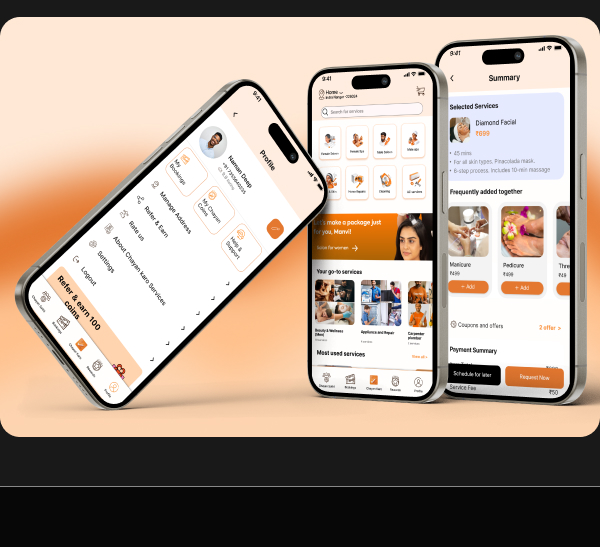
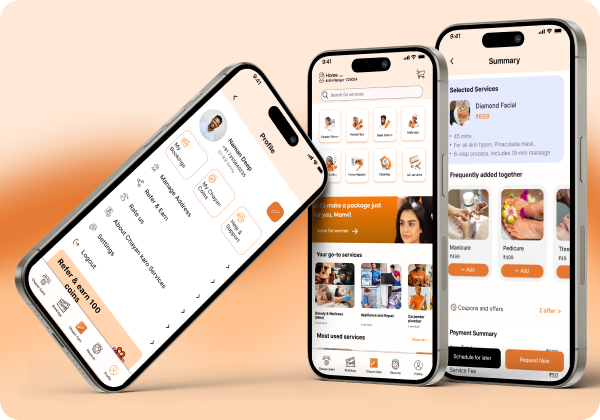
homeheaderfixed

diff --git a/src/components/case-study/CaseStudy.jsx b/src/components/case-study/CaseStudy.jsx
@@ -52,6 +52,40 @@ const CASE_STUDIES_DATA = {
       { label: 'Logistics Costs', value: '20% Lower' },
       { label: 'Price Transparency', value: '99% Accuracy' }
     ],
+    nextId: 'posts-brand',
+    nextTitle: 'Posts And Brand Identity'
+  },
+  'posts-brand': {
+    title: 'Posts And Brand Identity',
+    category: 'UX Research,Branding + UX/UI Designing',
+    role: 'Lead Brand Designer',
+    timeline: '6 Weeks (2025)',
+    deliverables: 'Brand Style Guide, Marketing Collaterals, Social Templates',
+    platform: 'Print & Digital Social Media',
+    problem: 'The brand faced fragmented marketing assets across channels, causing inconsistent brand awareness and low user engagement.',
+    solution: 'Designed a cohesive posts layout and visual brand identity framework, establishing consistent grids, typography, and color schemes for all public-facing assets.',
+    metrics: [
+      { label: 'Brand Consistency', value: '100% Score' },
+      { label: 'Social Engagement', value: '+50% Growth' },
+      { label: 'Asset Design Speed', value: '3x Faster' }
+    ],
+    nextId: 'illustrations',
+    nextTitle: 'Illustrations'
+  },
+  'illustrations': {
+    title: 'Illustrations',
+    category: 'UX Research,Branding + UX/UI Designing',
+    role: 'Digital Illustrator',
+    timeline: '4 Weeks (2025)',
+    deliverables: 'Vector Art, Hero Assets, Custom Icons',
+    platform: 'Web & Mobile',
+    problem: 'Generic stock illustrations failed to communicate the unique product value and failed to align with our high-tech cyberpunk branding.',
+    solution: 'Created a custom vector and glitch-art illustration system tailored to the brand aesthetic, featuring mechanical components, wireframes, and vibrant cyber hues.',
+    metrics: [
+      { label: 'Visual Uniqueness', value: 'High Score' },
+      { label: 'Conversion Rate', value: '+18% Lift' },
+      { label: 'UI Cohesiveness', value: 'Perfect Fit' }
+    ],
     nextId: 'chayan-karo',
     nextTitle: 'Chayan Karo'
   }

diff --git a/src/components/layout/navbar/Navbar.css b/src/components/layout/navbar/Navbar.css
@@ -23,11 +23,14 @@
 
     height:75px;
 
-    background:rgba(7,7,7,.85);
+    background:rgba(7,7,7,.5);
 
-    backdrop-filter:blur(14px);
+    backdrop-filter:blur(10px);
+    -webkit-backdrop-filter:blur(10px);
 
-    border-bottom:1px solid rgba(255,255,255,.04);
+    border-bottom:1px solid rgba(255,255,255,.08);
+
+    box-shadow:0 4px 30px rgba(0, 0, 0, 0.5);
 
 }
 
@@ -159,49 +162,78 @@
     color:#070707;
 }
 
-
 /* ========================= */
-/* MOBILE */
+/* MOBILE RESPONSIVENESS (HORIZONTAL ROW LAYOUT) */
 /* ========================= */
 
 @media(max-width:768px){
-
     .navbar{
-
         height:70px;
-
     }
 
     .navbar-container{
-
         padding:0 24px;
-
     }
 
     .navbar-logo-circle{
-
         width:36px;
-
         height:36px;
-
     }
 
     .navbar-menu{
-
-        gap:18px;
-
+        gap:24px;
     }
 
     .navbar-link{
+        font-size:15px;
+    }
 
+    .navbar-cta .nav-btn{
+        height:36px;
+        padding:0 20px;
+        font-size:15px;
+    }
+}
+
+@media(max-width:480px){
+    .navbar-container{
+        padding:0 16px;
+    }
+
+    .navbar-logo-circle{
+        width:32px;
+        height:32px;
+    }
+
+    .navbar-menu{
+        gap:16px;
+    }
+
+    .navbar-link{
         font-size:14px;
-
     }
 
-    .navbar-cta{
+    .navbar-cta .nav-btn{
+        height:32px;
+        padding:0 14px;
+        font-size:13px;
+    }
+}
 
-        display:none;
-
+@media(max-width:360px){
+    .navbar-container{
+        padding:0 8px;
     }
 
+    .navbar-menu{
+        gap:10px;
+    }
+
+    .navbar-link{
+        font-size:13px;
+    }
+
+    .navbar-cta .nav-btn{
+        padding:0 8px;
+    }
 }

diff --git a/src/sections/contact/Contact.jsx b/src/sections/contact/Contact.jsx
@@ -11,18 +11,35 @@ export default function Contact() {
     setFormState((prev) => ({ ...prev, [name]: value }));
   };
 
-  const handleTransmit = (e) => {
+  const handleTransmit = async (e) => {
     e.preventDefault();
     if (!formState.name || !formState.email || !formState.message) return;
 
     setStatus('transmitting');
-    
-    // Simulate tactical uplink transit
-    setTimeout(() => {
-      setStatus('success');
-      setFormState({ name: '', email: '', message: '' });
+
+    try {
+      const formData = new FormData(e.target);
+      formData.append("access_key", "9b094f12-e977-4b64-888b-eb0aeb3d8e1d");
+
+      const response = await fetch("https://api.web3forms.com/submit", {
+        method: "POST",
+        body: formData
+      });
+
+      const data = await response.json();
+      if (data.success) {
+        setStatus('success');
+        setFormState({ name: '', email: '', message: '' });
+        setTimeout(() => setStatus('idle'), 5000);
+      } else {
+        setStatus('error');
+        setTimeout(() => setStatus('idle'), 5000);
+      }
+    } catch (err) {
+      console.error("Web3Forms transmission failed", err);
+      setStatus('error');
       setTimeout(() => setStatus('idle'), 5000);
-    }, 2000);
+    }
   };
 
   const contacts = [

diff --git a/src/App.jsx b/src/App.jsx
@@ -54,6 +54,9 @@ export default function App() {
 
       {showFlicker && <FlickerLayer />}
 
+      {/* Render Navbar fixed relative to viewport outside of transformed container */}
+      {siteVisible && !currentCaseStudy && <Navbar />}
+
       {/* Main website wrapper (revealed when pulled) */}
       <motion.div 
         className="app-wrapper"
@@ -73,15 +76,12 @@ export default function App() {
             images={projectImages}
           />
         ) : (
-          <>
-            <Navbar />
-            <main>
-              <Hero isRevealed={siteVisible} />
-              <Projects onViewCaseStudy={setCurrentCaseStudy} />
-              <About />
-              <Contact />
-            </main>
-          </>
+          <main>
+            <Hero isRevealed={siteVisible} />
+            <Projects onViewCaseStudy={setCurrentCaseStudy} />
+            <About />
+            <Contact />
+          </main>
         )}
       </motion.div>
     </>

diff --git a/src/components/case-study/CaseStudy.css b/src/components/case-study/CaseStudy.css
@@ -158,13 +158,15 @@
 .case-study-divider {
   position: relative;
   width: 100%;
-  height: 120px;
-  margin: 40px 0;
-  overflow: hidden;
+  height: 48px;
+  margin: 20px 0;
+  overflow: visible;
 }
 
 .case-study-divider .caution-tapes-wrapper {
-  bottom: -40px;
+  bottom: auto;
+  top: 50%;
+  transform: translateY(-50%);
 }
 
 /* Problem & Solution */
@@ -342,7 +344,7 @@
   height: 280px;
   background-color: var(--black);
   margin-top: 40px;
-  overflow: hidden;
+  overflow: visible;
   display: flex;
   justify-content: center;
   align-items: center;
@@ -350,7 +352,8 @@
 
 .case-study-footer-cta .caution-tapes-wrapper {
   bottom: auto;
-  top: -30px;
+  top: 0;
+  transform: translateY(-50%);
 }
 
 .footer-cta-content {
@@ -359,7 +362,7 @@
   align-items: center;
   gap: 16px;
   z-index: 20;
-  margin-top: 60px;
+  margin-top: 80px;
 }
 
 .next-case-study-btn {

diff --git a/src/components/layout/navbar/Navbar.jsx b/src/components/layout/navbar/Navbar.jsx
@@ -40,7 +40,6 @@ export default function Navbar() {
   const navItems = [
     { id: 'home', label: 'Home' },
     { id: 'projects', label: 'Project' },
-    { id: 'contact', label: 'Contact' },
     { id: 'about', label: 'About' }
   ];
 
